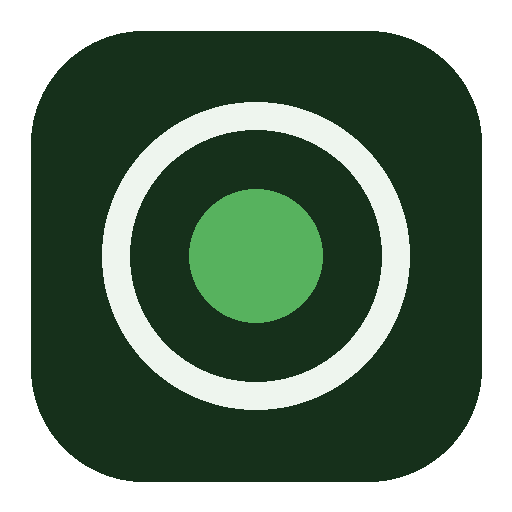
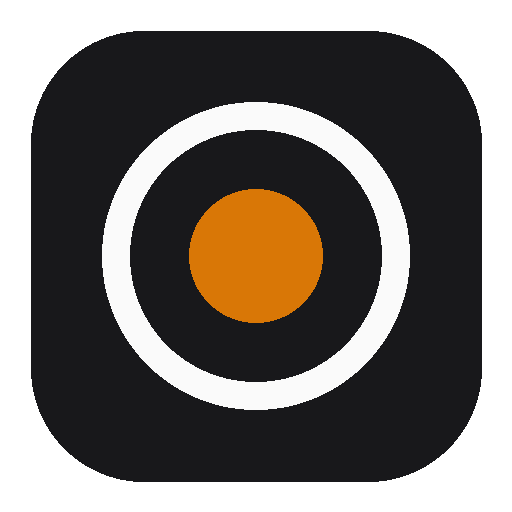
Restyle to neutral zinc + amber, minimalist light theme

Changed region(s): [[0.3438, 0.3438, 0.6562, 0.6562]]

diff --git a/index.html b/index.html
@@ -5,7 +5,7 @@
 <meta name="viewport" content="width=device-width, initial-scale=1, viewport-fit=cover">
 <title>CamWatch — Tu cámara vigila, nosotros te contamos lo que importa</title>
 <meta name="description" content="CamWatch revisa los eventos de tu cámara y te envía un resumen claro por correo: todo normal o algo que merece tu atención. Sin apps nuevas, sin notificaciones a cada rato.">
-<meta name="theme-color" content="#16301b">
+<meta name="theme-color" content="#fafaf9">
 <link rel="manifest" href="manifest.webmanifest">
 <link rel="icon" href="icons/icon-192.png">
 <link rel="apple-touch-icon" href="icons/icon-192.png">
@@ -20,8 +20,9 @@
 <meta property="og:image" content="https://camwatch.agtisa.com/og-image.png">
 <style>
   :root{
-    --bg:#0f2413; --card:#16301b; --line:#2a4a30; --accent:#57b25e;
-    --text:#eef5ee; --muted:#a7bfa9; --cta:#57b25e; --cta-text:#0f2413;
+    --bg:#fafaf9; --card:#ffffff; --line:#e4e4e7; --accent:#b45309;
+    --text:#18181b; --muted:#71717a; --cta:#18181b; --cta-text:#fafaf9;
+    --ok-bg:#ecfdf5; --ok:#047857;
   }
   *{box-sizing:border-box;margin:0;padding:0}
   html{scroll-behavior:smooth}
@@ -38,35 +39,35 @@
   .hero h1 .em{color:var(--accent)}
   .hero p{color:var(--muted);font-size:17px;max-width:46ch;margin:0 auto}
   .cta{display:block;text-align:center;background:var(--cta);color:var(--cta-text);
-       font-weight:700;font-size:17px;text-decoration:none;border-radius:12px;
-       padding:15px 20px;margin:26px auto 6px;max-width:340px}
+       font-weight:600;font-size:16px;text-decoration:none;border-radius:10px;
+       padding:14px 20px;margin:26px auto 6px;max-width:340px}
   .cta:active{transform:scale(.98)}
   .cta-sub{text-align:center;color:var(--muted);font-size:13px;margin-bottom:36px}
   h2{font-size:21px;margin:34px 0 14px}
   .steps{list-style:none}
   .steps li{background:var(--card);border:1px solid var(--line);border-radius:12px;
             padding:14px 16px;margin-bottom:10px;display:flex;gap:12px;align-items:flex-start}
-  .steps .n{background:var(--accent);color:var(--cta-text);font-weight:700;
+  .steps .n{background:var(--text);color:var(--cta-text);font-weight:700;
             min-width:26px;height:26px;border-radius:50%;display:flex;
             align-items:center;justify-content:center;font-size:14px;flex-shrink:0;margin-top:2px}
   .steps b{display:block;font-size:15.5px}
   .steps span{color:var(--muted);font-size:14px}
-  .mail{background:#f6f6f2;color:#222;border-radius:12px;padding:16px;margin-top:8px;
-        font-size:14px;box-shadow:0 4px 18px rgba(0,0,0,.35)}
-  .mail .mhead{border-bottom:2px solid #2c5f2d;padding-bottom:6px;margin-bottom:10px;font-weight:600}
+  .mail{background:#fff;color:#222;border:1px solid var(--line);border-radius:12px;
+        padding:16px;margin-top:8px;font-size:14px;box-shadow:0 4px 18px rgba(0,0,0,.06)}
+  .mail .mhead{border-bottom:2px solid #18181b;padding-bottom:6px;margin-bottom:10px;font-weight:600}
   .mail .mhead span{color:#888;font-weight:400;font-size:12.5px;margin-left:6px}
-  .mail .status{background:#e9f2e8;border-radius:8px;padding:8px 12px;color:#2c5f2d;
+  .mail .status{background:var(--ok-bg);border-radius:8px;padding:8px 12px;color:var(--ok);
                 font-weight:600;font-size:13.5px;margin:10px 0}
   .mail table{border-collapse:collapse;width:100%;font-size:13px}
   .mail td{padding:4px 8px 4px 0;vertical-align:top}
   .mail td:first-child{color:#999;white-space:nowrap}
   .price{background:var(--card);border:1px solid var(--line);border-radius:14px;
          padding:20px;text-align:center;margin-top:10px}
-  .price .big{font-size:34px;font-weight:800;color:var(--accent)}
+  .price .big{font-size:34px;font-weight:800}
   .price .per{color:var(--muted);font-size:14px}
   .price ul{list-style:none;margin:14px 0 0;text-align:left;font-size:14.5px;color:var(--muted)}
   .price li{padding:4px 0 4px 24px;position:relative}
-  .price li::before{content:'✓';color:var(--accent);position:absolute;left:4px;font-weight:700}
+  .price li::before{content:'✓';color:var(--ok);position:absolute;left:4px;font-weight:700}
   details{background:var(--card);border:1px solid var(--line);border-radius:10px;
           padding:12px 16px;margin-bottom:8px}
   summary{cursor:pointer;font-weight:600;font-size:15px}
